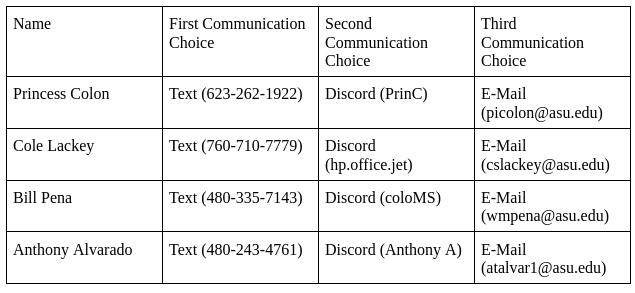
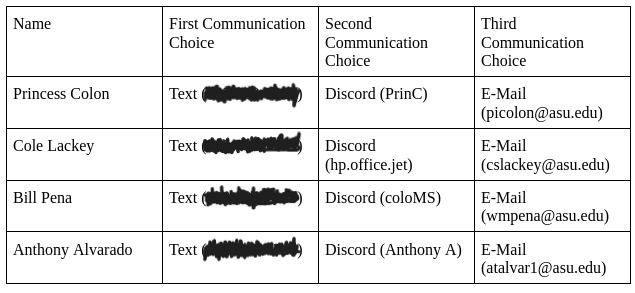
Added video, hid contacts, added sections
I added the checkpoint 1 video as a link/ embedded video. I block all of our phone numbers from the table and the image itself. I added new sections that are required for checkpoint 3. May need to add more.

diff --git a/hardware_implementation.html b/hardware_implementation.html
@@ -6,7 +6,7 @@
 -->
 <html>
 	<head>
-		<title>Checkpoint I</title>
+		<title>Hardware Implementation</title>
 		<meta charset="utf-8" />
 		<meta name="viewport" content="width=device-width, initial-scale=1, user-scalable=no" />
 		<link rel="stylesheet" href="assets/css/main.css" />
@@ -25,26 +25,30 @@
 					</div>
 					<div class="content">
 						<div class="inner">
-							<h1>Checkpoint I</h1>
+							<h1>Hardware Proposal</h1>
 							<p>Team 305 Arizona State University, EGR 314 (Class #17878), Professor: Kevin Nichols<br />
 						</div>
 					</div>
 				</header>
                 <p><a href="appendix.html">Appendix Page</a></p>
-            
+                <p></p>
+                <p></p>
 
-				<div class="content" style="padding-inline: 125px;">
+                <div class = "content" style="padding-inline: 125px;">
+                    <h2>Final Microcontroller Schematic</h2>
+                    <img src="/pictures/FINAL_isopod_hardwareProposal_Microcontroller_v3-1-1.png" alt="FINAL_isopod_hardwareProposal_Microcontroller_v3-1-1" width="80%" height="80%"> 
 
-				</div>
 
 
-				<h2>Link to our video presentation</h2>
 
-				<iframe width="420" height="315"
-				src="https://www.youtube.com/embed/IFEdKx9uXrw">
-				</iframe> 
-				
-				<!-- Footer -->
+
+
+
+
+
+
+
+                <!-- Footer -->
 					<footer id="footer">
 						<p class="copyright">&copy; 2024, <a href="https://github.com/EGR-314-Team-305-Spring-2024/EGR-314-Team-305-Spring-2024.github.io">MWMS</a></p>
 					</footer>

diff --git a/team_organization.html b/team_organization.html
@@ -62,25 +62,25 @@
 						<tbody>
 							<tr>
 								<td>Princess Colon</td>
-								<td>Text (623-262-1922)</td>
+								<td>Text </td>
 								<td>Discord (PrinC)</td>
 								<td>E-mail (<a href="mailto:picolon@asu.edu">picolon@asu.edu</a>)</td>
 							</tr>
 							<tr>
 								<td>Cole Lackey</td>
-								<td>Text (760-710-7779)</td>
+								<td>Text </td>
 								<td>Discord (hp.office.jet)</td>
 								<td>E-mail (<a href="mailto:cslackey@asu.edu">cslackey@asu.edu</a>)</td>
 							</tr>
 							<tr>
 								<td>Bill Pena</td>
-								<td>Text (480-335-7143)</td>
+								<td>Text </td>
 								<td>Discord (coloMS)</td>
 								<td>E-mail (<a href="mailto:wmpena@asu.edu">wmpena@asu.edu</a>)</td>
 							</tr>
 							<tr>
 								<td>Anthony Alverado</td>
-								<td>Text (480-243-4761)</td>
+								<td>Text </td>
 								<td>Discord (Anthony A)</td>
 								<td>E-mail (<a href="mailto:atalvar1@asu.edu">atalvar1@asu.edu</a>)</td>
 							</tr>
